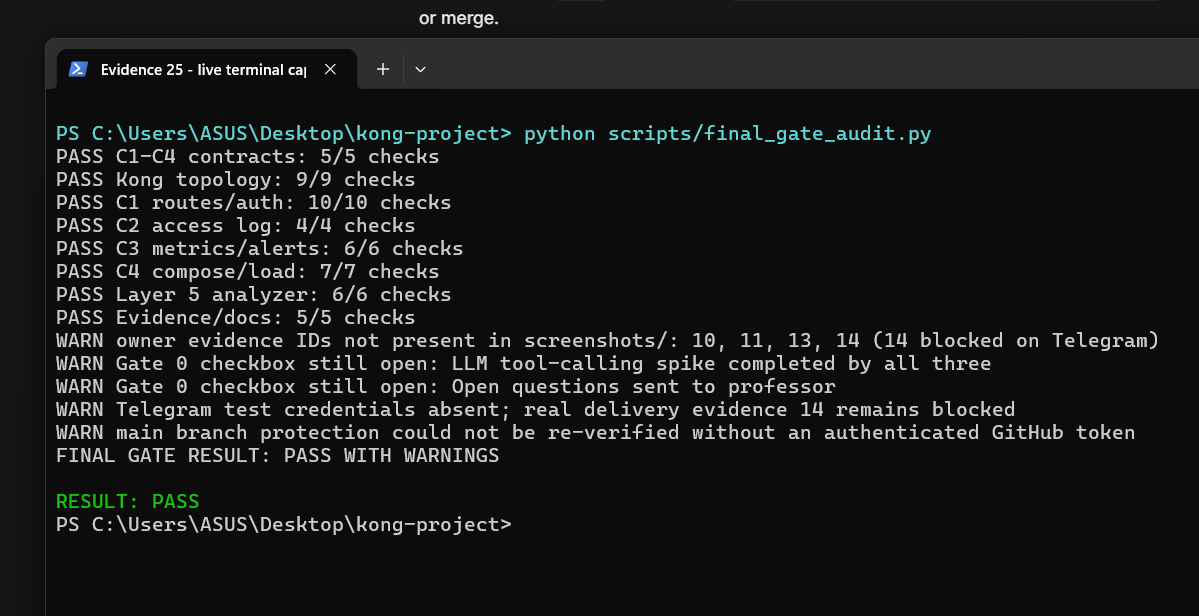
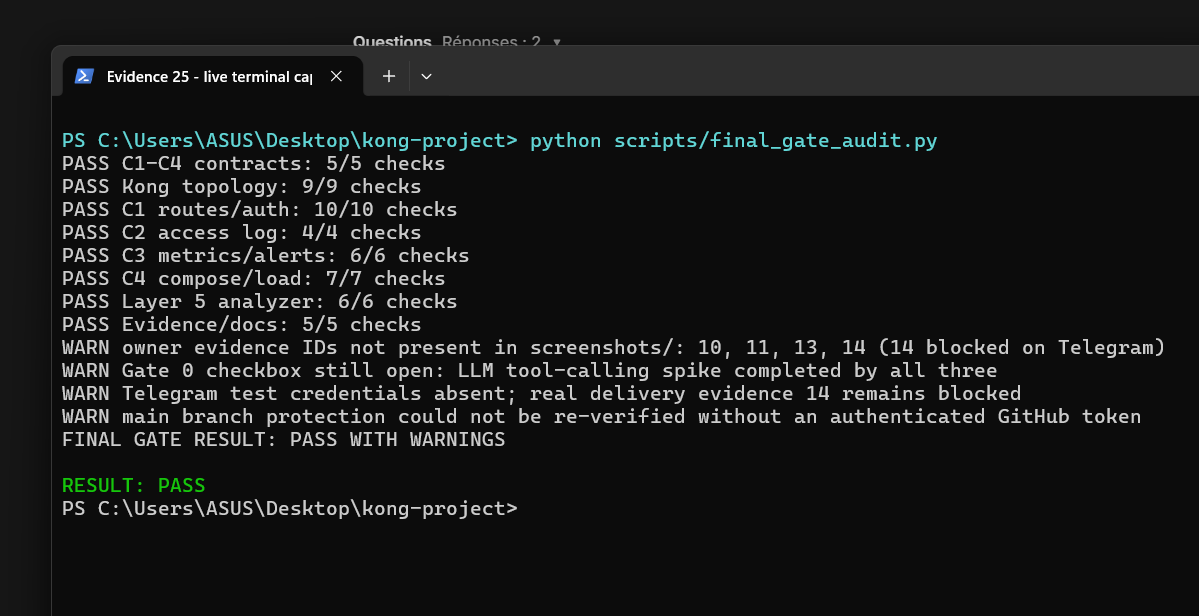
docs: close professor questions Gate 0 item

Changed region(s): [[0.0309, 0.1851, 0.9875, 0.8636], [0.0309, 0.0, 1.0, 0.1542]]

diff --git a/decisions.md b/decisions.md
@@ -83,5 +83,9 @@
 ## DEC-020 — Final Gate audit
 - Status: Applied after explicit A/B/C approval for the Final Gate audit
 - Decision: `scripts/final_gate_audit.py` is the reproducible stdlib-only Final Gate audit. Its current result is `PASS WITH WARNINGS`: 52/52 automated checks pass across C1–C4 contracts, Kong topology/healthchecks, live C1 auth/headers, live C2 log fields, C3 Prometheus/Alertmanager/n8n, C4 Compose/load generators, Layer 5 analyzer, evidence files, CI structure and branch invariants.
-- Decision: The audit intentionally reports open items as WARN rather than marking them complete: owner evidence IDs `10`, `11`, `13`, `14`; the two Gate 0 checkboxes for the LLM tool-calling spike and professor questions; absent Telegram credentials; and the inability to re-read `main` branch protection without an authenticated GitHub token.
+- Decision: The audit intentionally reports open items as WARN rather than marking them complete: owner evidence IDs `10`, `11`, `13`, `14`; the Gate 0 checkbox for the LLM tool-calling spike; absent Telegram credentials; and the inability to re-read `main` branch protection without an authenticated GitHub token. The professor-questions checkbox was subsequently confirmed sent by A/B/C and is now checked.
 - Decision: Evidence `screenshots/25_final_gate_audit.png` is a direct screenshot of a visible PowerShell window running that audit. The capture returned `RESULT: PASS`.
+
+## DEC-021 — Gate 0 professor questions closed
+- Status: Approved by A Eya Derouiche, B Aya Fayachi and C Wafe Bziouiche
+- Decision: The Gate 0 item "Open questions sent to professor" is marked complete. The LLM tool-calling spike remains open because A/B/C did not approve the V3.3 analyzer as that specific spike and have not supplied the separate spike record. Owner evidence IDs `10`, `11` and `13` also remain open pending the exact Master Plan topics; evidence `14` stays documented as blocked on Telegram credentials.

diff --git a/README.md b/README.md
@@ -40,7 +40,7 @@ docker compose --profile core down
 - [x] CI workflow implemented (branch protection still to be configured on GitHub)
 - [x] All three students approve contracts
 - [ ] LLM tool-calling spike completed by all three
-- [ ] Open questions sent to professor
+- [x] Open questions sent to professor
 
 ## Continuous integration
 
@@ -404,7 +404,7 @@ Prometheus UI: `http://127.0.0.1:9090`. Alertmanager UI: `http://127.0.0.1:9093`
 `scripts/final_gate_audit.py` is a stdlib-only audit of the live prototype and the repository artifacts. It checks the four frozen contracts, Kong topology/healthchecks, C1 auth and headers, the live C2 access-log line, C3 metrics/alerts/n8n, C4 Compose/load generators, the Layer 5 analyzer, evidence files, CI job structure and branch invariants. The current run is **PASS WITH WARNINGS**: 52/52 automated checks pass, while the script deliberately reports these open items instead of hiding them:
 
 - Owner evidence IDs `10`, `11`, `13` and `14` are not present in `screenshots/`; `14` remains blocked on Telegram test credentials.
-- Gate 0 still has two unchecked questions: the LLM tool-calling spike completed by all three students, and open questions sent to the professor.
+- Gate 0 still has one unchecked question: the LLM tool-calling spike completed by all three students. The professor-questions item is now confirmed sent by A/B/C.
 - No authenticated GitHub token was available to re-read `main` branch protection; the earlier applied protection is unchanged but not re-verified in this run.
 
 ```powershell
